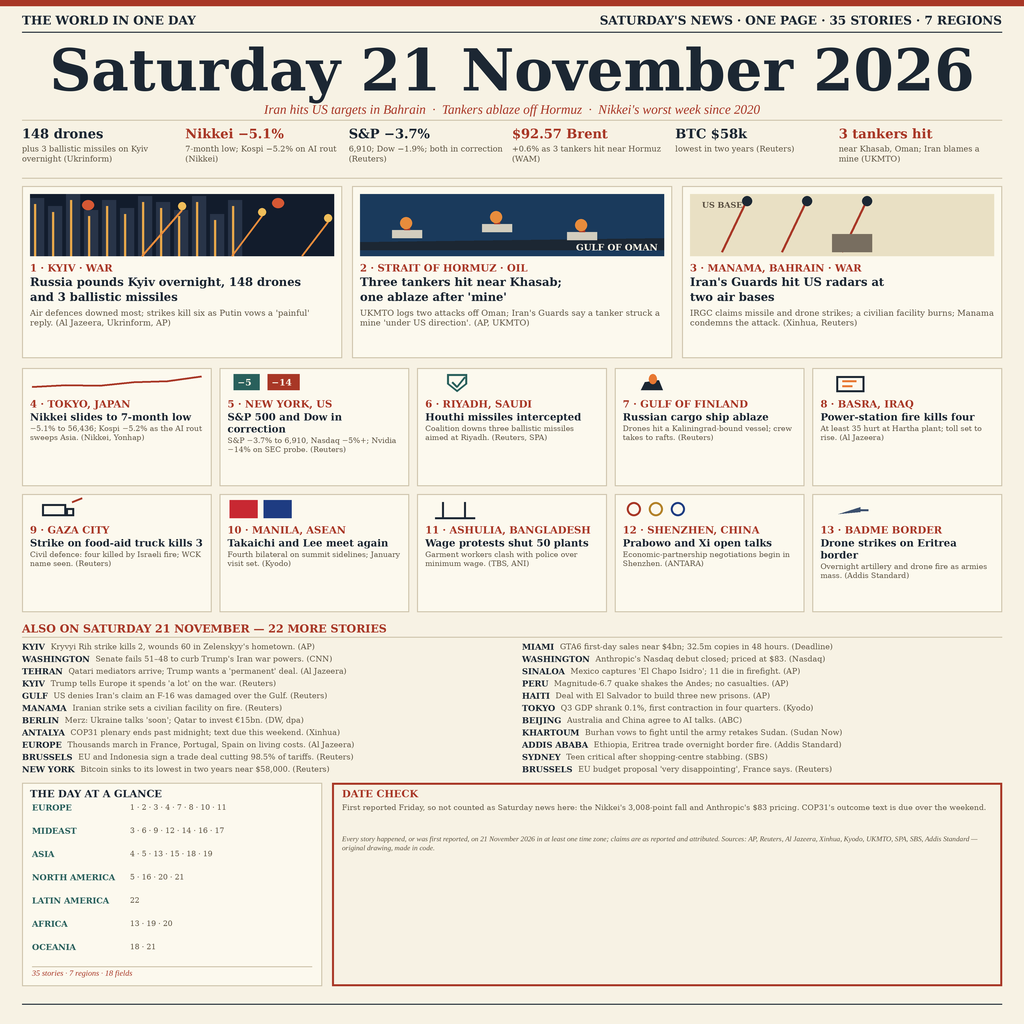
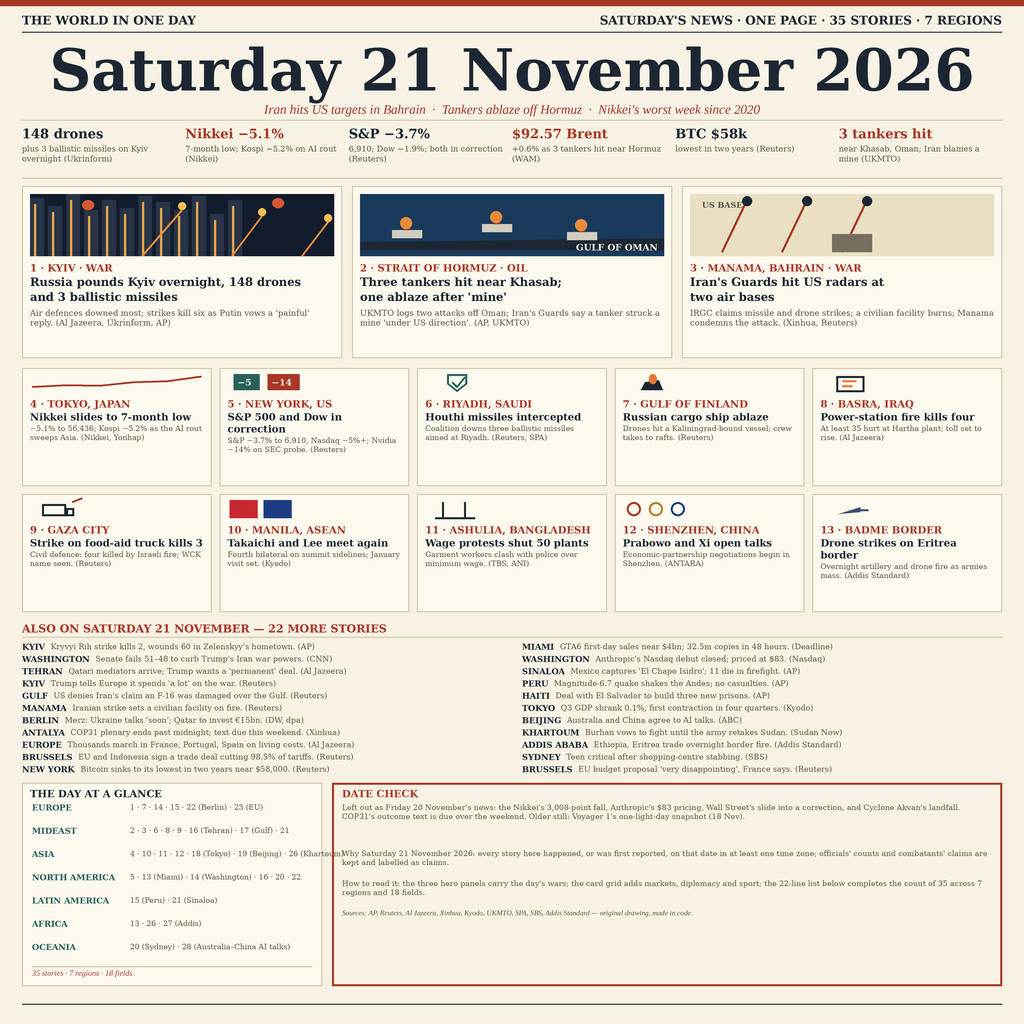
E1 v2: fix region->story map in DAY AT A GLANCE, expand DATE CHECK with why/how-to-read, fix overlap

Changed region(s): [[0.125, 0.7812, 0.9688, 0.9375], [0.4375, 0.875, 0.5, 0.9062], [0.5312, 0.875, 0.5625, 0.9062]]

diff --git a/build_front.py b/build_front.py
@@ -353,13 +353,13 @@ card(M, by2, bw, pw2)
 CARD_BOTTOM = by2 + pw2
 d.text((M + 8 * S, by2 + 5 * S), "THE DAY AT A GLANCE", font=serifb(10), fill=INK)
 regions = [
-    ("EUROPE", "1 · 2 · 3 · 4 · 7 · 8 · 10 · 11"),
-    ("MIDEAST", "3 · 6 · 9 · 12 · 14 · 16 · 17"),
-    ("ASIA", "4 · 5 · 13 · 15 · 18 · 19"),
-    ("NORTH AMERICA", "5 · 16 · 20 · 21"),
-    ("LATIN AMERICA", "22"),
-    ("AFRICA", "13 · 19 · 20"),
-    ("OCEANIA", "18 · 21"),
+    ("EUROPE", "1 · 7 · 14 · 15 · 22 (Berlin) · 23 (EU)"),
+    ("MIDEAST", "2 · 3 · 6 · 8 · 9 · 16 (Tehran) · 17 (Gulf) · 21"),
+    ("ASIA", "4 · 10 · 11 · 12 · 18 (Tokyo) · 19 (Beijing) · 26 (Khartoum)"),
+    ("NORTH AMERICA", "5 · 13 (Miami) · 14 (Washington) · 16 · 20 · 22"),
+    ("LATIN AMERICA", "15 (Peru) · 21 (Sinaloa)"),
+    ("AFRICA", "13 · 26 · 27 (Addis)"),
+    ("OCEANIA", "20 (Sydney) · 28 (Australia–China AI talks)"),
 ]
 yy = by2 + 20 * S
 rh = (pw2 - 40 * S) // 7
@@ -375,13 +375,21 @@ dx0 = M + bw + 10 * S
 d.rectangle([dx0, by2, PX - M, CARD_BOTTOM], outline=RED, width=2 * S)
 d.text((dx0 + 10 * S, by2 + 5 * S), "DATE CHECK", font=serifb(10), fill=RED)
 para(dx0 + 10 * S, by2 + 20 * S,
-     "First reported Friday, so not counted as Saturday news here: the Nikkei's 3,008-point fall and "
-     "Anthropic's $83 pricing. COP31's outcome text is due over the weekend.",
+     "Left out as Friday 20 November's news: the Nikkei's 3,008-point fall, Anthropic's $83 pricing, "
+     "Wall Street's slide into a correction, and Cyclone Akvan's landfall. COP31's outcome text is due "
+     "over the weekend. Older still: Voyager 1's one-light-day snapshot (18 Nov).",
      serif(7.6), PX - M - dx0 - 20 * S, MUTED, lh=9 * S)
-para(dx0 + 10 * S, by2 + 52 * S,
-     "Every story happened, or was first reported, on 21 November 2026 in at least one time zone; claims "
-     "are as reported and attributed. Sources: AP, Reuters, Al Jazeera, Xinhua, Kyodo, UKMTO, SPA, SBS, "
-     "Addis Standard — original drawing, made in code.",
+para(dx0 + 10 * S, by2 + 76 * S,
+     "Why Saturday 21 November 2026: every story here happened, or was first reported, on that date in at "
+     "least one time zone; officials' counts and combatants' claims are kept and labelled as claims.",
+     serif(7.6), PX - M - dx0 - 20 * S, MUTED, lh=9 * S)
+para(dx0 + 10 * S, by2 + 108 * S,
+     "How to read it: the three hero panels carry the day's wars; the card grid adds markets, diplomacy "
+     "and sport; the 22-line list below completes the count of 35 across 7 regions and 18 fields.",
+     serif(7.6), PX - M - dx0 - 20 * S, MUTED, lh=9 * S)
+para(dx0 + 10 * S, by2 + 140 * S,
+     "Sources: AP, Reuters, Al Jazeera, Xinhua, Kyodo, UKMTO, SPA, SBS, Addis Standard — original drawing, "
+     "made in code.",
      serifit(7.2), PX - M - dx0 - 20 * S, MUTED, lh=9 * S)
 
 # footer
